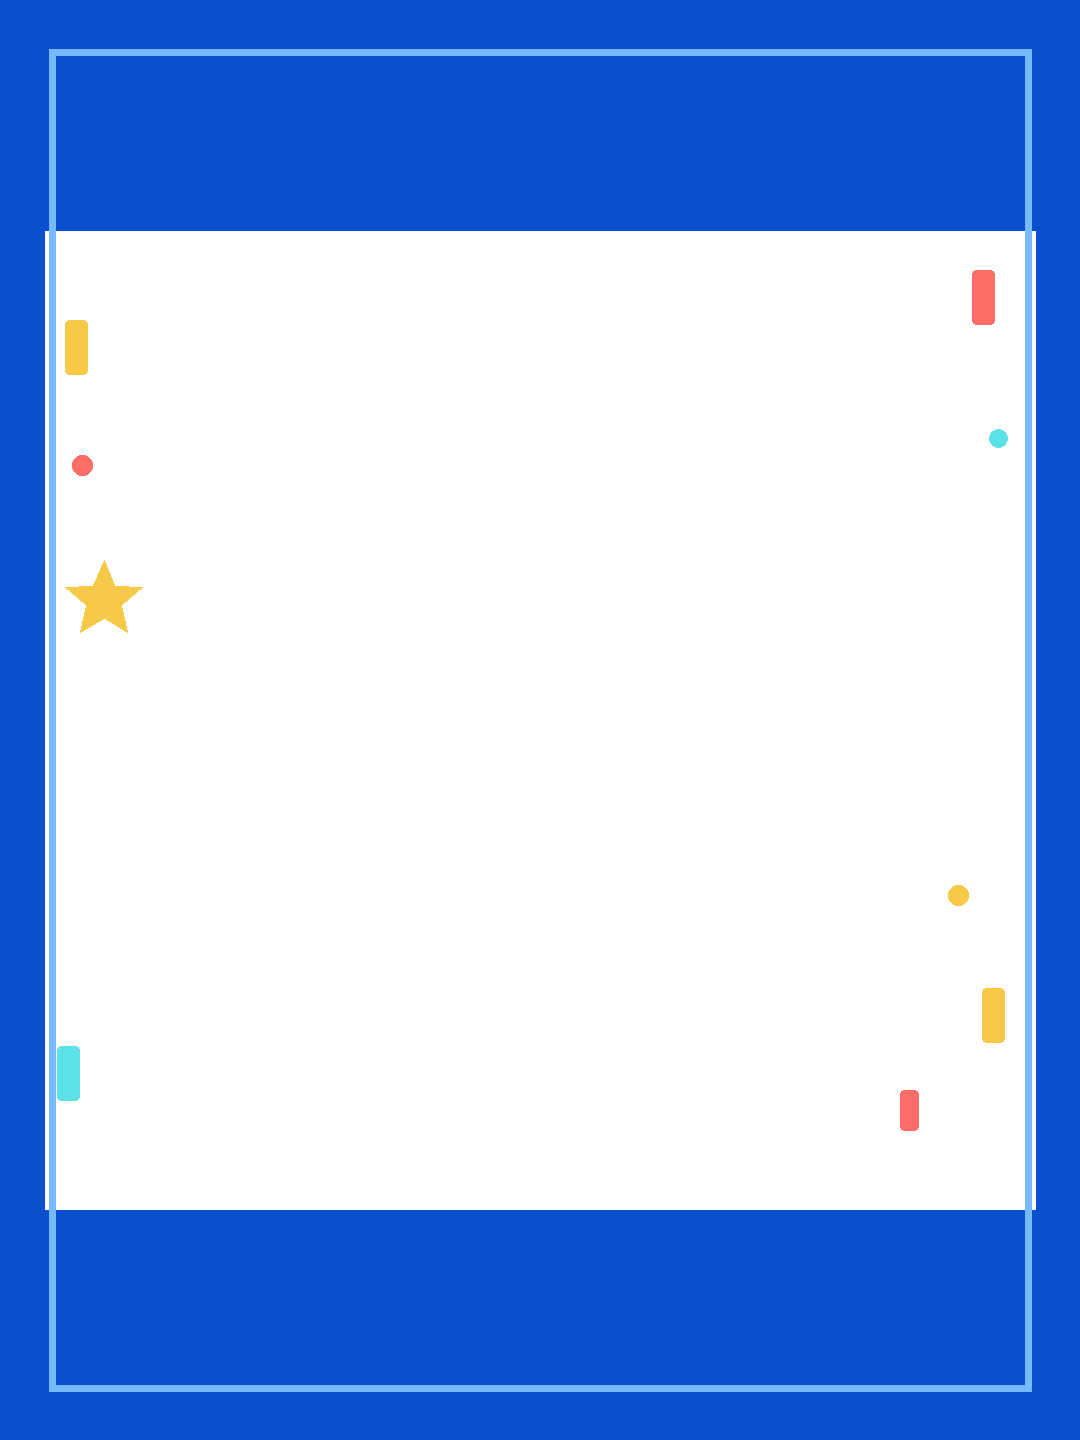
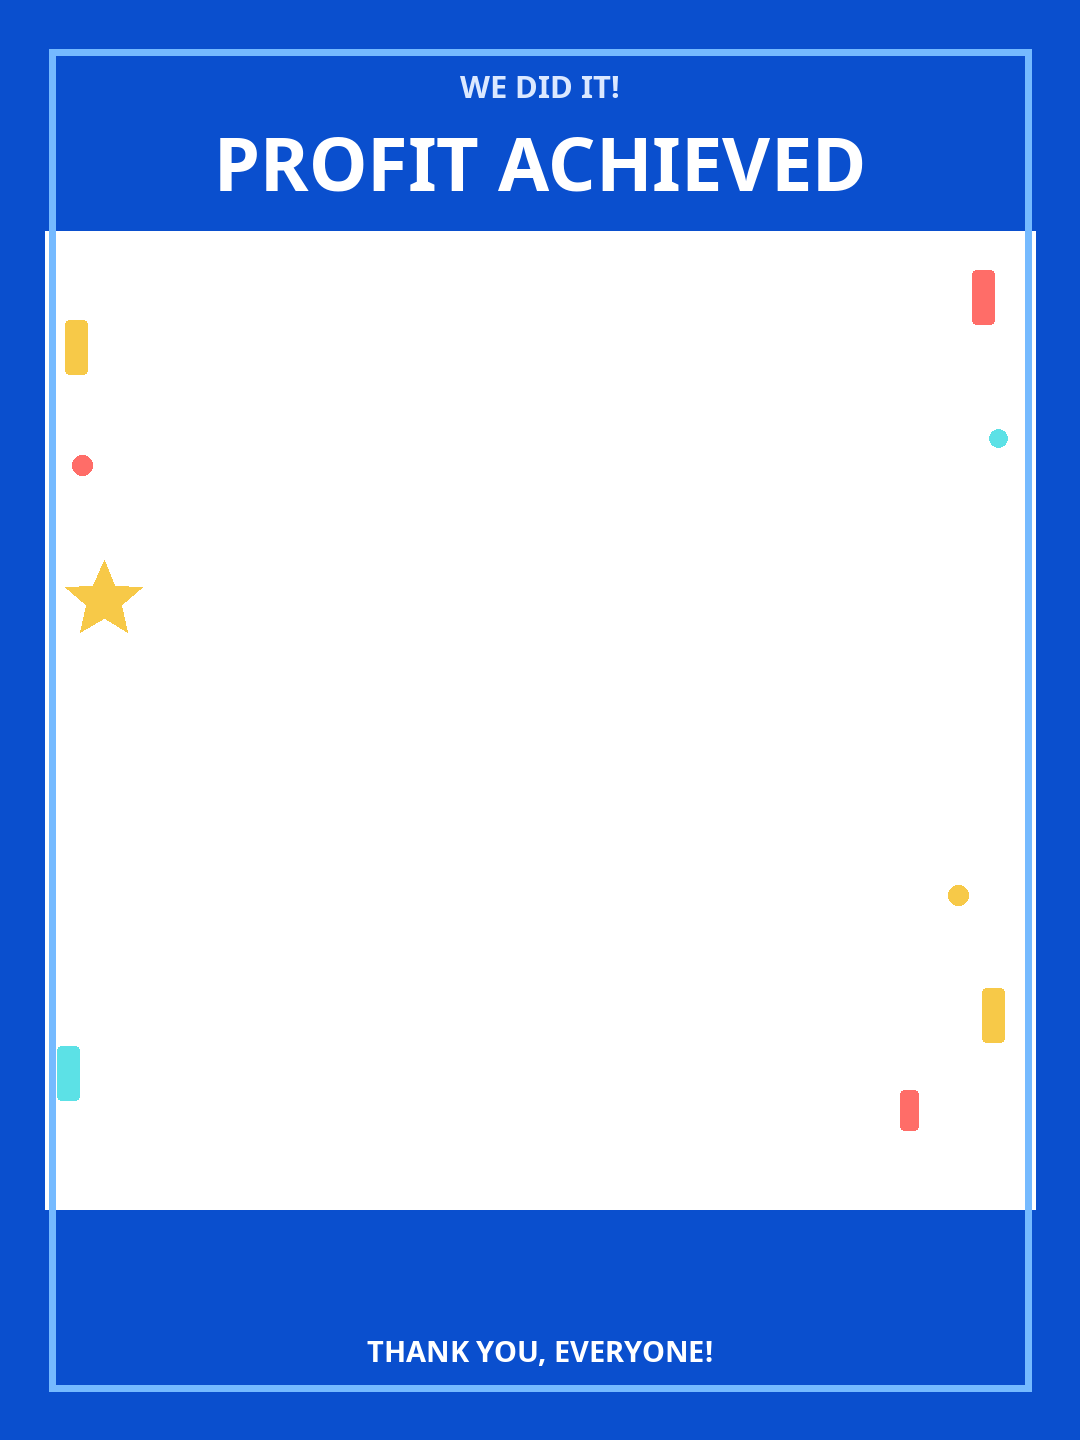
Add files via upload

Changed region(s): [[0.1833, 0.0312, 0.7944, 0.1562], [0.4583, 0.9062, 0.6417, 0.9688], [0.3667, 0.9062, 0.4278, 0.9688]]

diff --git a/photoweb/js/camera.js b/photoweb/js/camera.js
@@ -6,13 +6,12 @@ const context = output.getContext('2d');
 
 const startPanel = document.querySelector('#start');
 const errorMessage = document.querySelector('#error');
-const countdown = document.querySelector('#countdown');
 const flash = document.querySelector('#flash');
 const shootControls = document.querySelector('#shootControls');
 const resultControls = document.querySelector('#resultControls');
 
 let mediaStream;
-let facingMode = 'user';
+let facingMode = 'environment';
 let photoBlob;
 let photoUrl;
 
@@ -70,57 +69,10 @@ function getCoverCrop(sourceWidth, sourceHeight, targetWidth, targetHeight) {
   return [0, (sourceHeight - height) / 2, sourceWidth, height];
 }
 
-function drawSpacedText(text, x, y, font, color, spacing) {
-  context.save();
-  context.font = font;
-  context.fillStyle = color;
-  context.textBaseline = 'middle';
-  context.shadowColor = 'rgba(0, 17, 54, .75)';
-  context.shadowBlur = 18;
-
-  const characters = [...text];
-  const widths = characters.map((character) => context.measureText(character).width);
-  const totalWidth = widths.reduce((total, width) => total + width, 0) + spacing * (characters.length - 1);
-  let positionX = x - totalWidth / 2;
-
-  characters.forEach((character, index) => {
-    context.fillText(character, positionX, y);
-    positionX += widths[index] + spacing;
-  });
-
-  context.restore();
-}
-
-function drawFrameCopy() {
-  drawSpacedText('WE DID IT!', OUTPUT_WIDTH / 2, 87, '900 29px system-ui, sans-serif', '#dbe8ff', 7);
-
-  context.save();
-  context.fillStyle = '#ffffff';
-  context.font = '950 76px "Noto Sans JP", system-ui, sans-serif';
-  context.textAlign = 'center';
-  context.textBaseline = 'middle';
-  context.shadowColor = 'rgba(0, 17, 54, .75)';
-  context.shadowBlur = 18;
-  context.fillText('祝 黒字化達成', OUTPUT_WIDTH / 2, 154);
-  context.restore();
-
-  drawSpacedText('THANK YOU, EVERYONE!', OUTPUT_WIDTH / 2, OUTPUT_HEIGHT - 79, '900 28px system-ui, sans-serif', '#ffffff', 5);
-}
-
-async function runCountdown() {
-  for (const number of [3, 2, 1]) {
-    countdown.textContent = number;
-    countdown.classList.add('is-visible');
-    await new Promise((resolve) => setTimeout(resolve, 650));
-  }
-  countdown.classList.remove('is-visible');
-}
-
 async function takePhoto() {
   if (!mediaStream || camera.readyState < 2) return;
 
   document.querySelector('#shutter').disabled = true;
-  await runCountdown();
 
   if (!frameImage.complete) {
     await frameImage.decode();
@@ -144,7 +96,6 @@ async function takePhoto() {
   context.drawImage(camera, ...crop, 0, 0, OUTPUT_WIDTH, OUTPUT_HEIGHT);
   context.restore();
   context.drawImage(frameImage, 0, 0, OUTPUT_WIDTH, OUTPUT_HEIGHT);
-  drawFrameCopy();
 
   photoBlob = await new Promise((resolve) => output.toBlob(resolve, 'image/jpeg', 0.94));
   photoUrl = URL.createObjectURL(photoBlob);

diff --git a/photoweb/css/style.css b/photoweb/css/style.css
@@ -51,8 +51,7 @@ button { font: inherit; }
 
 #camera,
 .photo,
-.frame-image,
-.frame-copy {
+.frame-image {
   position: absolute;
   inset: 0;
   width: 100%;
@@ -74,48 +73,6 @@ button { font: inherit; }
   z-index: 2;
   object-fit: fill;
   pointer-events: none;
-}
-
-.frame-copy {
-  z-index: 3;
-  pointer-events: none;
-  color: white;
-  text-align: center;
-  text-shadow: 0 3px 15px rgba(0, 17, 54, .75);
-}
-
-.frame-copy__top {
-  position: absolute;
-  top: 4.8%;
-  left: 7%;
-  right: 7%;
-}
-
-.frame-copy__top span {
-  display: block;
-  margin-bottom: 2px;
-  color: #dbe8ff;
-  font-size: clamp(10px, 2.7vw, 14px);
-  font-weight: 800;
-  letter-spacing: .23em;
-}
-
-.frame-copy__top strong {
-  display: block;
-  font-size: clamp(25px, 8vw, 44px);
-  font-weight: 950;
-  line-height: 1.05;
-  letter-spacing: .04em;
-}
-
-.frame-copy__bottom {
-  position: absolute;
-  left: 7%;
-  right: 7%;
-  bottom: 4.6%;
-  font-size: clamp(10px, 2.8vw, 15px);
-  font-weight: 850;
-  letter-spacing: .16em;
 }
 
 .start {
@@ -162,21 +119,6 @@ button { font: inherit; }
   color: white;
   background: rgba(121, 15, 36, .94);
 }
-
-.countdown {
-  position: absolute;
-  inset: 0;
-  z-index: 7;
-  display: none;
-  place-items: center;
-  color: white;
-  background: rgba(0, 18, 58, .25);
-  font-size: clamp(90px, 34vw, 180px);
-  font-weight: 950;
-  text-shadow: 0 8px 28px rgba(0, 0, 0, .65);
-}
-
-.countdown.is-visible { display: grid; }
 
 .flash {
   position: absolute;

diff --git a/photoweb/index.html b/photoweb/index.html
@@ -16,21 +16,11 @@
       <!-- デザインは透明PNG。差し替える場合は、この画像だけ変更 -->
       <img class="frame-image" src="./assets/frame-celebration.png" alt="">
 
-      <!-- 仮コピー。文字込みPNGに差し替える場合は削除可能 -->
-      <div class="frame-copy" aria-hidden="true">
-        <div class="frame-copy__top">
-          <span>WE DID IT!</span>
-          <strong>祝 黒字化達成</strong>
-        </div>
-        <div class="frame-copy__bottom">THANK YOU, EVERYONE!</div>
-      </div>
-
       <div class="start" id="start">
         <button id="startCamera" class="start__button">カメラを起動</button>
         <p>ブラウザからカメラの使用を許可してください</p>
       </div>
 
-      <div class="countdown" id="countdown" aria-live="assertive"></div>
       <div class="flash" id="flash"></div>
       <p class="error" id="error" role="alert"></p>
     </div>
